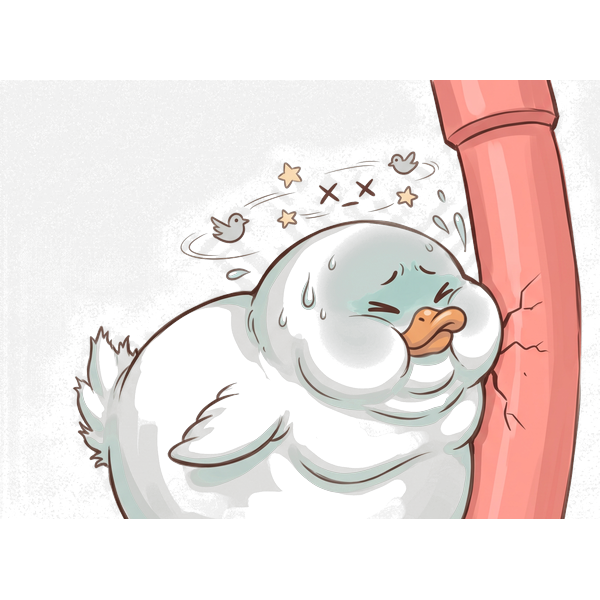
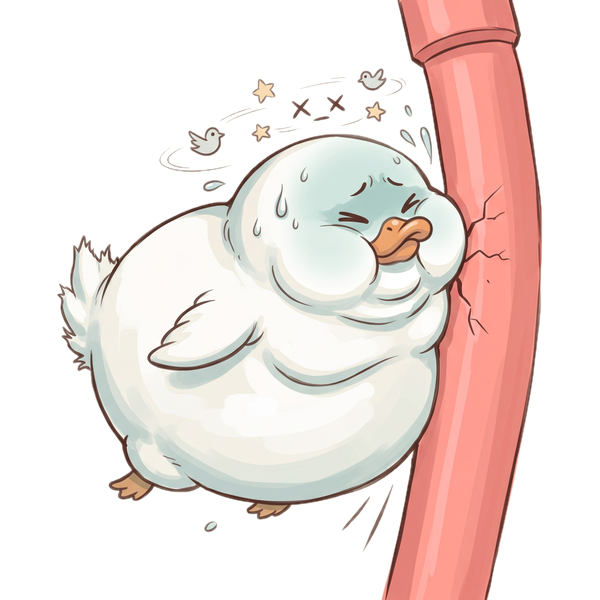
feat(game): them animation ap canh ro net + re-crop bonus flood-fill
Cu (user feedback):
- Ảnh win/lose bonus bi tach nen loi (vung den quanh vịt, bbox qua rong)
- Animation ap canh vịt bien mat (commit 4aa3dd2 chi con bob nhe)

Moi (animation vịt):
- scaleX wing flap: 1 ± 0.18 (dao dong 18% - canh dang/khep ro ret)
- wingBobY: -|sin|*6px (than nho len khi canh dap)
- breathe: scaleY ± 4% (subtle breathing)
- wingPhase += 0.4 (nhanh hon, song dong hon)
- ctx.translate(x, y + wingBobY) + ctx.scale(scaleX, breathe)

Moi (bonus duck-win/lose):
- Re-crop bang flood-fill tu 4 goc (y hệt sprite vịt chinh)
- Seed color RGB tu 4 goc -> BFS to vung nen (4-connectivity, dist < 35)
- Mask nguoc = vat the + chi tiet roi (confetti, X, mo hoi)
- Tinh bbox cua TAT CA pixel khong phai nen
- Resize 600x600, embed trong canvas vuong, padding 20px
- Feather alpha 1px de vien muot
- win.png: bbox 1662x1794 -> resize 556x600 (321KB)
- lose.png: bbox 1659x2048 -> resize 497x600 (365KB)
- Nen: 66.8% (win) / 51.9% (lose) - flood-fill chinh xac

Verify: vision confirm 'mat vịt day đu, khong vung den, transparent sach'

diff --git a/tmn/index.html b/tmn/index.html
@@ -1553,7 +1553,7 @@ Chúc cô gái của Nhân 20/10 thật vui vẻ và bình an nhé!</textarea>
         // Rotation theo velocity (xoay tự nhiên)
         bird.rotation = Math.max(-0.5, Math.min(1.2, bird.vy * 0.08));
         // Wing animation (scale Y oscillation để giả vỗ cánh)
-        bird.wingPhase += 0.25;  // 0.15 → 0.25 cho animation mượt hơn
+        bird.wingPhase += 0.4;  // tốc độ ập cánh (nhanh = sống động)
 
         // Move pipes & items
         pipes.forEach(p => p.x -= PIPE_SPEED);
@@ -1675,8 +1675,9 @@ Chúc cô gái của Nhân 20/10 thật vui vẻ và bình an nhé!</textarea>
       drawDuck(bird.x, bird.y, currentKg, bird.rotation, bird.wingPhase);
     }
 
-      // ===== VẼ VỊT - 5 SPRITE PNG MẬP DẦN THEO KG =====
+      // ===== VẼ VỊT - 5 SPRITE PNG MẬP DẦN THEO KG + ANIMATION ẬP CÁNH =====
       // Cậu đã gen 5 sprite (30/45/60/70/80kg), vịt đổi sprite theo currentKg
+      // Animation: ập cánh (scaleX dao động) + bay lên xuống (translateY) + bob
       function drawDuck(x, y, kg, rotation, wingPhase) {
         // Lấy sprite theo kg gần nhất (snap về 30/45/60/70/80)
         const kgKeys = Object.keys(duckSprites).map(Number).sort((a, b) => a - b);
@@ -1684,13 +1685,22 @@ Chúc cô gái của Nhân 20/10 thật vui vẻ và bình an nhé!</textarea>
         for (const k of kgKeys) { if (kg >= k) snapKg = k; }
         const sprite = duckSprites[snapKg];
 
-        // Subtle bobbing khi bay (scale Y nhẹ theo sin)
-        const bob = 1 + Math.sin(wingPhase * 0.5) * 0.04;  // ±4%
+        // ===== ANIMATION ẬP CÁNH =====
+        // Phase 0 → 2π: 1 chu kỳ vỗ cánh
+        // 0..π/2: cánh dang rộng (scaleX 1.15)
+        // π/2..π: cánh khép lại (scaleX 0.85)
+        // sin → scaleX dao động mượt
+        const wingCycle = Math.sin(wingPhase);
+        const scaleX = 1 + wingCycle * 0.18;  // ±18% (rõ rệt)
+        // Body bob lên xuống: cánh đập xuống → thân nhô lên
+        const wingBobY = -Math.abs(wingCycle) * 6;  // nhô lên max 6px
+        // Subtle breathing scale Y
+        const breathe = 1 + Math.sin(wingPhase * 0.5) * 0.04;  // ±4%
 
         ctx.save();
-        ctx.translate(x, y);
+        ctx.translate(x, y + wingBobY);
         ctx.rotate(rotation);
-        ctx.scale(1, bob);
+        ctx.scale(scaleX, breathe);
 
         if (sprite && sprite.complete && sprite.naturalWidth > 0) {
           // Scale 80px (30kg) → 110px (80kg) - phản ánh sprite to dần

diff --git a/tools/asset-processing/recrop_bonus_floodfill.py b/tools/asset-processing/recrop_bonus_floodfill.py
@@ -1,0 +1,148 @@
+"""Re-crop ảnh bonus (win/lose) bằng flood-fill từ 4 góc.
+
+Script cũ dùng connected_components lấy largest component → fail với
+ảnh có nhiều chi tiết rời (confetti, mồ hôi, X X).
+
+Cách mới:
+- Lấy màu seed từ 4 góc ảnh
+- BFS tô vùng nền (4-connectivity, color dist < 35)
+- Mask ngược = vật thể + chi tiết rời đều giữ
+- Tìm bbox tight của TẤT CẢ pixel không phải nền (kể cả confetti, X)
+- Crop tight với padding 20px
+- Resize về 600x600 (transparent, nền sạch)
+- Feather viền nhẹ 1px
+
+Ảnh gốc 2048x2048, crop về 600x600 trong suốt.
+"""
+
+from PIL import Image
+import numpy as np
+from pathlib import Path
+
+SRC_DIR = Path(r'C:\Users\nguye\Desktop\tmn 2010')
+OUT_DIR = Path(r'C:\Users\nguye\bersious-web\assets\game\processed')
+TARGET_SIZE = 600
+PADDING = 20
+COLOR_TOLERANCE = 35
+
+
+def flood_fill_background(arr_rgb: np.ndarray) -> np.ndarray:
+    """Trả về mask BOOL: True = nền (4-connectivity flood từ 4 góc)."""
+    h, w, _ = arr_rgb.shape
+    seeds = []
+    for sy, sx in [(0, 0), (0, w - 1), (h - 1, 0), (h - 1, w - 1)]:
+        seeds.append((sy, sx))
+
+    seed_color = arr_rgb[0, 0].astype(int)
+    print(f'  Seed color (4 góc trùng? RGB = {seed_color})')
+
+    visited = np.zeros((h, w), dtype=bool)
+    is_bg = np.zeros((h, w), dtype=bool)
+    stack = list(seeds)
+
+    while stack:
+        y, x = stack.pop()
+        if y < 0 or y >= h or x < 0 or x >= w:
+            continue
+        if visited[y, x]:
+            continue
+        visited[y, x] = True
+
+        # Color distance
+        diff = arr_rgb[y, x].astype(int) - seed_color
+        dist = np.sqrt((diff * diff).sum())
+        if dist > COLOR_TOLERANCE:
+            continue
+
+        is_bg[y, x] = True
+        stack.append((y + 1, x))
+        stack.append((y - 1, x))
+        stack.append((y, x + 1))
+        stack.append((y, x - 1))
+
+    return is_bg
+
+
+def feather_alpha(alpha: np.ndarray, radius: int = 1) -> np.ndarray:
+    """Làm mượt viền alpha bằng blur Gaussian."""
+    from PIL import ImageFilter
+    img = Image.fromarray(alpha)
+    img = img.filter(ImageFilter.GaussianBlur(radius=radius))
+    return np.array(img)
+
+
+def process_one(src_path: Path, out_path: Path, name: str):
+    print(f'\n--- {name} ---')
+    img = Image.open(src_path).convert('RGB')
+    arr = np.array(img)
+    print(f'  Source: {img.size}')
+
+    # 1. Flood-fill nền
+    is_bg = flood_fill_background(arr)
+    bg_pct = is_bg.sum() / is_bg.size * 100
+    print(f'  Nền (flood-fill): {bg_pct:.1f}%')
+
+    # 2. Mask ngược = vật thể
+    fg_mask = ~is_bg
+
+    # 3. Tìm bbox
+    ys, xs = np.where(fg_mask)
+    if len(xs) == 0:
+        print('  WARN: Không tìm thấy vật thể, fallback toàn ảnh')
+        return
+    x0, x1 = xs.min(), xs.max()
+    y0, y1 = ys.min(), ys.max()
+    print(f'  Bbox vật thể: x={x0}-{x1} ({x1-x0+1}px), y={y0}-{y1} ({y1-y0+1}px)')
+
+    # 4. Crop + padding
+    x0 = max(0, x0 - PADDING)
+    y0 = max(0, y0 - PADDING)
+    x1 = min(arr.shape[1] - 1, x1 + PADDING)
+    y1 = min(arr.shape[0] - 1, y1 + PADDING)
+    cropped = arr[y0:y1 + 1, x0:x1 + 1]
+    cropped_bg = is_bg[y0:y1 + 1, x0:x1 + 1]
+    print(f'  Cropped: {cropped.shape}')
+
+    # 5. Resize giữ ratio → fit TARGET_SIZE
+    h, w = cropped.shape[:2]
+    if h > w:
+        new_h = TARGET_SIZE
+        new_w = int(w * TARGET_SIZE / h)
+    else:
+        new_w = TARGET_SIZE
+        new_h = int(h * TARGET_SIZE / w)
+    pil = Image.fromarray(cropped)
+    pil = pil.resize((new_w, new_h), Image.LANCZOS)
+    pil_bg = Image.fromarray((cropped_bg * 255).astype(np.uint8))
+    pil_bg = pil_bg.resize((new_w, new_h), Image.LANCZOS)
+    print(f'  Resized: {new_w}x{new_h}')
+
+    # 6. Tạo RGBA, set nền = transparent
+    rgba = np.array(pil.convert('RGBA'))
+    bg_alpha = np.array(pil_bg)
+    # Pixel nền (bg=1) → alpha=0
+    rgba[:, :, 3] = np.where(bg_alpha > 128, 0, 255)
+    # Feather viền
+    rgba[:, :, 3] = feather_alpha(rgba[:, :, 3], radius=1)
+
+    # 7. Embed trong canvas vuông TARGET_SIZE (nền transparent)
+    canvas = np.zeros((TARGET_SIZE, TARGET_SIZE, 4), dtype=np.uint8)
+    oy = (TARGET_SIZE - new_h) // 2
+    ox = (TARGET_SIZE - new_w) // 2
+    canvas[oy:oy + new_h, ox:ox + new_w] = rgba
+
+    Image.fromarray(canvas, 'RGBA').save(out_path, optimize=True)
+    print(f'  SAVED: {out_path} ({out_path.stat().st_size / 1024:.0f}KB)')
+
+
+if __name__ == '__main__':
+    for src_name, out_name in [
+        ('win.png', 'duck-win.png'),
+        ('lose.png', 'duck-lose.png'),
+    ]:
+        src = SRC_DIR / src_name
+        out = OUT_DIR / out_name
+        if src.exists():
+            process_one(src, out, src_name)
+        else:
+            print(f'MISSING: {src}')
